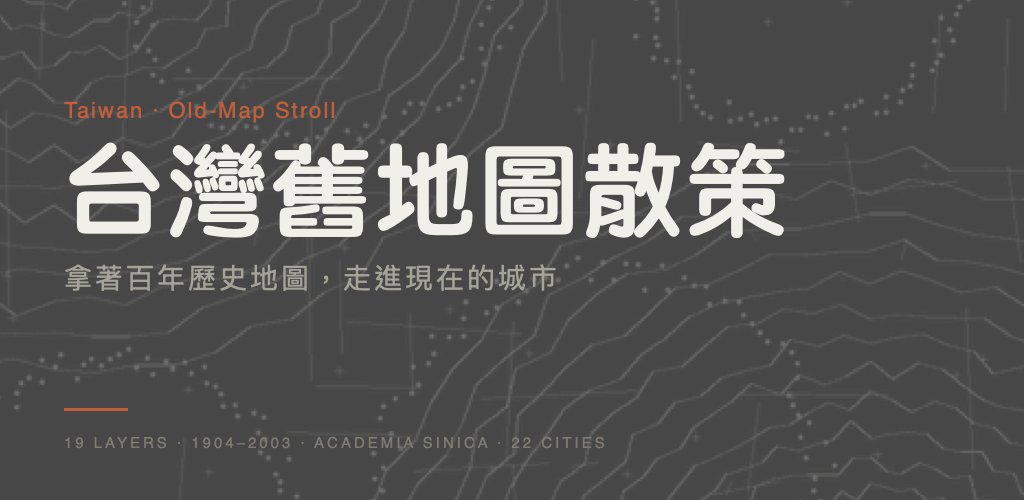
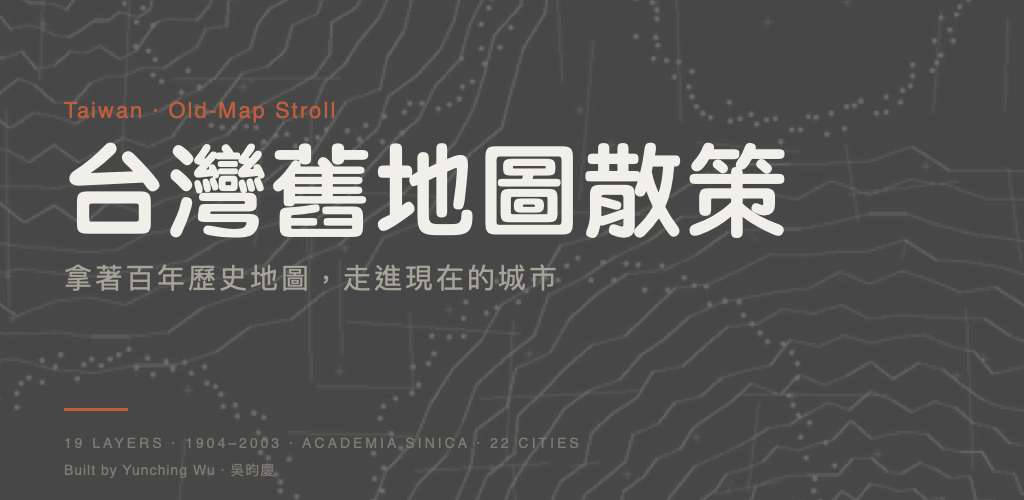
UI: Position above Strata + tighter peek + dev credit
- Move 02 — Position section (locate / record / camera / share)
  to sit right under 01 — Base, ahead of the layer browser. Active
  controls now closer to thumb on mobile; layer browsing pushed to
  03 since it's an exploration-mode action. Sections renumber:
  Base 01, Position 02, Strata 03, Traces 04.
- Tighten mobile peek max-height from 96 to 60 and hide the
  panel-scroll content entirely with visibility:hidden, so the
  "舊地圖散策" title is no longer half-clipped under the sheet
  handle on iPhone. Peek now shows just the handle + hint.
- Add "Built by 吳昀慶 · Yunching Wu" credit to the in-app footer,
  privacy.html, store-listing.md, and the Play feature graphic.

Changed region(s): [[0.0625, 0.87, 0.5938, 0.9], [0.0625, 0.93, 0.2812, 0.96]]

diff --git a/index.html b/index.html
@@ -922,13 +922,16 @@
       padding-top: 10px;
     }
 
-    /* Peek state — only handle + a thin status line visible */
+    /* Peek state — only handle + a thin status line visible. We collapse the
+       panel tighter and hide panel-head content so the "舊地圖散策" title
+       isn't half-clipped under the sheet handle. */
     .panel.peek {
-      max-height: 96px;
+      max-height: 60px;
     }
     .panel.peek .panel-scroll {
       overflow: hidden;
       pointer-events: none;
+      visibility: hidden;
     }
 
     .sheet-handle {
@@ -1148,14 +1151,7 @@
     </div>
 
     <div class="section-label">
-      <span class="num">02 — Strata</span>
-      <span class="en">historical layers</span>
-    </div>
-
-    <div id="historical-layers"></div>
-
-    <div class="section-label">
-      <span class="num">03 — Position</span>
+      <span class="num">02 — Position</span>
       <span class="en">gps · trace</span>
     </div>
 
@@ -1218,6 +1214,13 @@
     </div>
 
     <div class="section-label">
+      <span class="num">03 — Strata</span>
+      <span class="en">historical layers</span>
+    </div>
+
+    <div id="historical-layers"></div>
+
+    <div class="section-label">
       <span class="num">04 — Traces</span>
       <span class="en">saved walks</span>
     </div>
@@ -1231,6 +1234,9 @@
       歷史圖資 · <a href="https://gis.sinica.edu.tw" target="_blank" rel="noopener">中央研究院 GIS</a><br>
       現代底圖 · <a href="https://carto.com/" target="_blank" rel="noopener">CARTO</a> ·
       <a href="https://www.openstreetmap.org/copyright" target="_blank" rel="noopener">OpenStreetMap</a>
+
+      <span class="mono">Built by</span>
+      <a href="https://github.com/yunching0513" target="_blank" rel="noopener">吳昀慶 · Yunching Wu</a>
     </footer>
   </div>
 </aside>

diff --git a/privacy.html b/privacy.html
@@ -321,7 +321,8 @@
   </section>
 
   <footer>
-    <a href="./">← 回到 App</a> · TAIWAN · OLD-MAP STROLL · yunching0513.github.io/taiwan-historical-maps
+    <a href="./">← 回到 App</a> · TAIWAN · OLD-MAP STROLL<br>
+    Built by 吳昀慶 · Yunching Wu · <a href="https://github.com/yunching0513" target="_blank" rel="noopener">github.com/yunching0513</a>
   </footer>
 </div>
 </body>

diff --git a/store-listing.md b/store-listing.md
@@ -86,6 +86,8 @@ Walk the city with century-old maps. 19 layers, GPS tracking, photo memories.
 · 歷史圖磚：中央研究院 GIS 專題中心
 · 現代正射影像：內政部國土測繪中心
 · 現代街道底圖：CARTO / OpenStreetMap
+
+開發者：吳昀慶 Yunching Wu
 ```
 
 **English Version**（for international Play store visibility）:
@@ -129,6 +131,8 @@ All data (GPS traces, photos, preferences) stays on your device via IndexedDB an
 · Historical tiles: Academia Sinica GIS Center
 · Modern orthophoto: National Land Surveying & Mapping Center (NLSC, Taiwan)
 · Modern street basemap: CARTO / OpenStreetMap
+
+Built by Yunching Wu · 吳昀慶
 ```
 
 ---